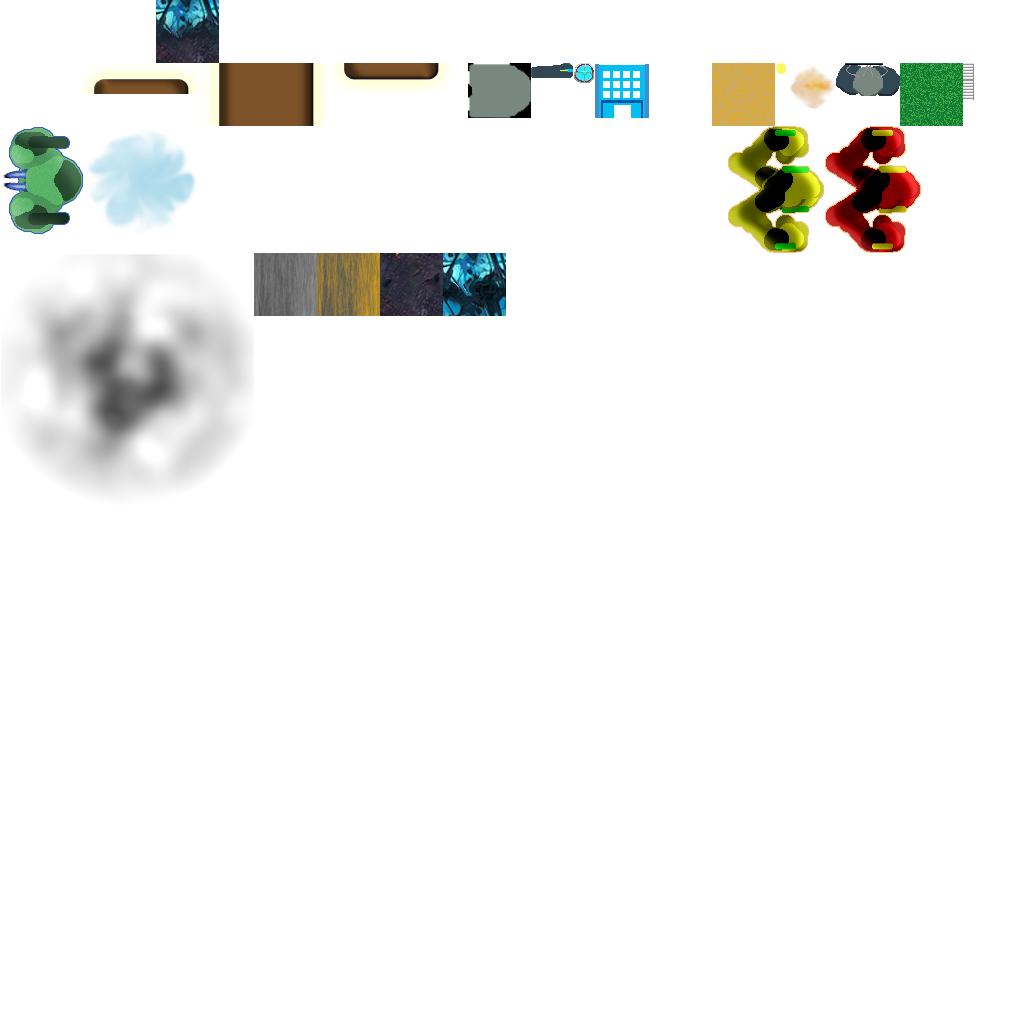
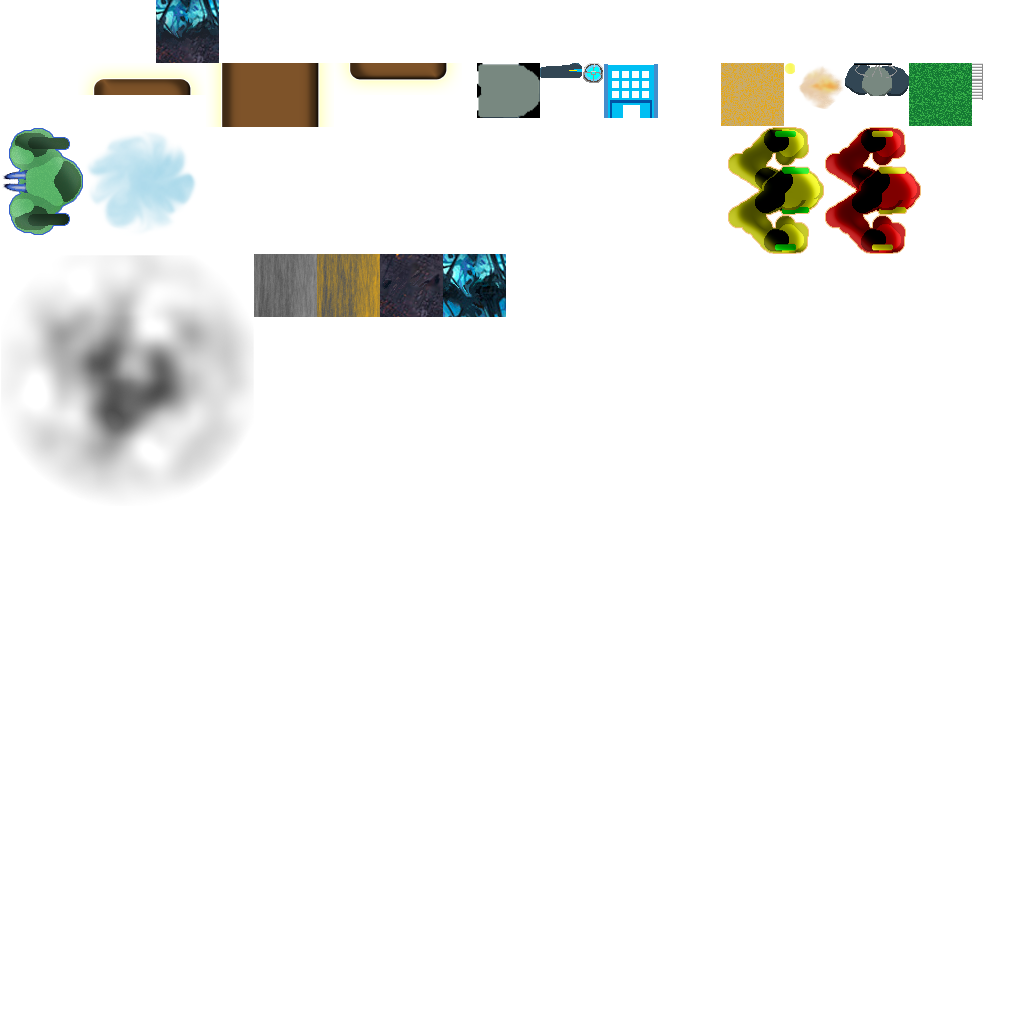
centered 8patch, draw test rects

diff --git a/testlib_gl.c b/testlib_gl.c
@@ -67,21 +67,11 @@ int renderer_load_shader(const char* src, int kind) {
   return shader;
 }
 
-enum ProgramParameters {
+typedef enum {
   GLPARAM_VERTEX,
-  GLPARAM_TEXCOORD0
-};
-
-int renderer_link_program(int vertex, int fragment) {
-  int program = glCreateProgram();
-  glAttachShader(program, vertex);
-  glAttachShader(program, fragment);
-  glBindAttribLocation(program, GLPARAM_VERTEX, "vertex");
-  glBindAttribLocation(program, GLPARAM_TEXCOORD0, "tex_coord0");
-  glLinkProgram(program);
-
-  return program;
-}
+  GLPARAM_TEXCOORD0,
+  GLPARAM_DONE
+} ProgramParameters;
 
 GLuint standard_program;
 GLuint vertex_buffer;
@@ -90,13 +80,33 @@ struct Matrix44_ orthographic_projection;
 GLuint tex0_uniform_location;
 GLuint mvp_uniform_location;
 
-void renderer_init_standard_shader() {
-  char* vertex_source = filename_slurp("resources/standard.vert");
-  char* fragment_source = filename_slurp("resources/standard.frag");
+GLuint solid_program;
+GLuint solid_mvp_uniform_location;
+GLuint solid_color_location;
+
+int renderer_link_shader(const char* vertexname, const char* fragmentname, ...) {
+  char* vertex_source = filename_slurp(vertexname);
+  char* fragment_source = filename_slurp(fragmentname);
 
   int vertex = renderer_load_shader(vertex_source, GL_VERTEX_SHADER);
   int fragment = renderer_load_shader(fragment_source, GL_FRAGMENT_SHADER);
-  int program = renderer_link_program(vertex, fragment);
+  int program = glCreateProgram();
+
+  glAttachShader(program, vertex);
+  glAttachShader(program, fragment);
+
+  va_list ap;
+  va_start(ap, fragmentname);
+  while(1) {
+    ProgramParameters param = va_arg(ap, ProgramParameters);
+    if(param == GLPARAM_DONE) break;
+
+    const char* name = va_arg(ap, char*);
+    glBindAttribLocation(program, param, name);
+  }
+
+  glLinkProgram(program);
+
   glDeleteShader(vertex);
   glDeleteShader(fragment);
   int link_status;
@@ -108,12 +118,27 @@ void renderer_init_standard_shader() {
     fail_exit("glLinkProgram: %s\n", buffer);
   }
 
+  return program;
+}
+
+void renderer_init_standard_shader() {
+  int program = renderer_link_shader("resources/standard.vert", "resources/standard.frag",
+                                     GLPARAM_VERTEX, "vertex",
+                                     GLPARAM_TEXCOORD0, "tex_coord0",
+                                     GLPARAM_DONE);
   standard_program = program;
   tex0_uniform_location = glGetUniformLocation(program, "tex0");
   mvp_uniform_location = glGetUniformLocation(program, "mvpMatrix");
 
   glGenBuffers(1, &vertex_buffer);
   glGenBuffers(1, &texcoord_buffer);
+
+  program = renderer_link_shader("resources/standard.vert", "resources/solid.frag",
+                                 GLPARAM_VERTEX, "vertex",
+                                 GLPARAM_DONE);
+  solid_program = program;
+  solid_mvp_uniform_location = glGetUniformLocation(program, "mvpMatrix");
+  solid_color_location = glGetUniformLocation(program, "color");
 }
 
 void renderer_gl_init() {
@@ -271,4 +296,32 @@ void spritelist_render_to_screen(SpriteList list) {
   glVertexAttribPointer(GLPARAM_TEXCOORD0, 2, GL_FLOAT, GL_FALSE, 0, 0);
 
   glDrawArrays(GL_TRIANGLES, 0, nverts);
+}
+
+void rect_render_to_screen(Rect rect) {
+  GLfloat rect_lines[] = {
+    rect->minx, rect->miny, 0,
+    rect->minx, rect->maxy, 0,
+
+    rect->minx, rect->maxy, 0,
+    rect->maxx, rect->maxy, 0,
+
+    rect->maxx, rect->maxy, 0,
+    rect->maxx, rect->miny, 0,
+
+    rect->maxx, rect->miny, 0,
+    rect->minx, rect->miny, 0
+  };
+
+  glUseProgram(solid_program);
+
+  glUniformMatrix4fv(mvp_uniform_location, 1, GL_FALSE, orthographic_projection.data);
+
+  glEnableVertexAttribArray(GLPARAM_VERTEX);
+  glBindBuffer(GL_ARRAY_BUFFER, vertex_buffer);
+  glBufferData(GL_ARRAY_BUFFER, sizeof(rect_lines), rect_lines, GL_DYNAMIC_DRAW);
+  glVertexAttribPointer(GLPARAM_VERTEX, 3, GL_FLOAT, GL_FALSE, 0, 0);
+
+  glUniform4f(solid_color_location, 1.0f, 0.0f, 1.0f, 1.0f);
+  glDrawArrays(GL_LINES, 0, 8);
 }

diff --git a/tools/spritepak.py b/tools/spritepak.py
@@ -60,7 +60,7 @@ def find_visible_bounds(image, pad=1):
     return (left, top, right, bottom)
 
 
-def mk_sheet(filenames, outbase, tgt_dims):
+def mk_sheet(filenames, outbase, tgt_dims, notrimg):
     outimagename = outbase + '.png'
     outdatname = outbase + '.dat'
     outdat = open(outdatname, 'w')
@@ -75,8 +75,12 @@ def mk_sheet(filenames, outbase, tgt_dims):
     max_row_h = 0
 
     for fname in filenames:
+        junk, basename = os.path.split(fname)
         img = Image.open(fname)
-        img = img.crop(find_visible_bounds(img))
+
+        if not basename in notrim:
+            img = img.crop(find_visible_bounds(img))
+
         img_w, img_h = img.size
 
         def state_str():
@@ -99,7 +103,6 @@ def mk_sheet(filenames, outbase, tgt_dims):
         # finally, insert the image
         tgt.paste(img, (current_x, current_y))
 
-        junk, basename = os.path.split(fname)
         u0 = float(current_x) / tgt_w
         v1 = float(current_y) / tgt_h
         u1 = float(current_x + img_w) / tgt_w
@@ -116,11 +119,15 @@ def mk_sheet(filenames, outbase, tgt_dims):
     outdat.close()
 
 if __name__ == '__main__':
-    if len(sys.argv) < 3:
-        print 'usage: %s outfile [input files]' % sys.argv[0]
+    if len(sys.argv) < 4:
+        print 'usage: %s notrim outprefix [input files]' % sys.argv[0]
         exit(1)
 
-    outfile = sys.argv[1]
-    infiles = sys.argv[2:]
+    notrimfile = sys.argv[1]
+    outfile = sys.argv[2]
+    infiles = sys.argv[3:]
 
-    mk_sheet(infiles, outfile, (1024, 1024))
+    with open(notrimfile) as f:
+        notrim = [ name.rstrip() for name in f ]
+
+    mk_sheet(infiles, outfile, (1024, 1024), notrim)

diff --git a/testlib.c b/testlib.c
@@ -1,9 +1,10 @@
-#include <math.h>
-#include <stdarg.h>
-
 #include "testlib.h"
 #include "testlib_internal.h"
 #include "stb_image.h"
+
+#include <math.h>
+#include <stdarg.h>
+#include <string.h>
 
 ThreadBarrier render_barrier;
 FixedAllocator clock_allocator;
@@ -211,6 +212,15 @@ extern void spritelist_render_to_screen(SpriteList list);
 
 void spritelist_enqueue_for_screen(SpriteList list) {
   renderer_enqueue(spritelist_render_to_screen, list);
+}
+
+extern void rect_render_to_screen(Rect rect);
+
+void rect_enqueue_for_screen(Rect rect) {
+  // copy for caller convenience (this is really a debugging routine)
+  Rect new_rect = frame_alloc(sizeof(struct Rect_));
+  memcpy(new_rect, rect, sizeof(struct Rect_));
+  renderer_enqueue(rect_render_to_screen, new_rect);
 }
 
 Command command_make(CommandFunction function, void* data) {

diff --git a/game.c b/game.c
@@ -776,9 +776,14 @@ void game_step(long delta, InputState state) {
   */
 
   // test 8patch
-  struct Rect_ patch = { 0, 0, screen_width, 128 };
+  int box_width = (screen_width / 64) * 64;
+  int residual = screen_width - box_width;
+  int offset = residual / 2;
+
+  struct Rect_ patch = { offset, 0, offset + box_width, 128 };
   spritelist_enqueue_for_screen(spritelist_from_8patch(NULL, atlas, &patch));
-  spritelist_enqueue_for_screen(spritelist_from_string(NULL, atlas, FONT_SMALL, "hello world", 32, 32));
+  spritelist_enqueue_for_screen(spritelist_from_string(NULL, atlas, FONT_SMALL,
+                                                       "hello world", 32 + offset, 32));
 }
 
 void game_shutdown() {

diff --git a/utils.c b/utils.c
@@ -32,7 +32,7 @@ long timer_elapsed_msecs(Timer timer) {
   return dsecs * 1000 + (dusecs / 1000);
 }
 
-long filename_size(char* filename) {
+long filename_size(const char* filename) {
   FILE* f = fopen(filename, "r");
   if(!f) fail_exit("file %s does not exist", filename);
 
@@ -40,7 +40,7 @@ long filename_size(char* filename) {
   return ftell(f);
 }
 
-char* filename_slurp(char* filename) {
+char* filename_slurp(const char* filename) {
   long size = filename_size(filename);
   char* data = malloc(size + 1);
   data[size] = '\0';

diff --git a/game_ui.c b/game_ui.c
@@ -74,8 +74,8 @@ SpriteList spritelist_from_8patch(SpriteList list, SpriteAtlas atlas, Rect rect)
   ensure_cache(atlas);
 
   int major_dim = patch_cache[EP_C]->w;
-  int xsteps = rect_width(rect) / major_dim + 1;
-  int ysteps = rect_height(rect) / major_dim + 1;
+  int xsteps = (rect_width(rect) / major_dim) + 1;
+  int ysteps = (rect_height(rect) / major_dim) + 1;
   int xpos = rect->minx;
   int ypos = rect->miny;
 

diff --git a/utils.h b/utils.h
@@ -24,7 +24,7 @@ long timer_elapsed_msecs(Timer timer);
     printf("%ld\n", msecs);                     \
   } while(0)
 
-long filename_size(char* filename);
-char* filename_slurp(char* filename);
+long filename_size(const char* filename);
+char* filename_slurp(const char* filename);
 
 #endif

diff --git a/testlib.h b/testlib.h
@@ -109,6 +109,7 @@ typedef struct SpriteList_ {
 SpriteList frame_spritelist_append(SpriteList list, Sprite sprite);
 
 void spritelist_enqueue_for_screen(SpriteList list);
+void rect_enqueue_for_screen(Rect rect);
 
 typedef void (*CommandFunction)(void*);
 
